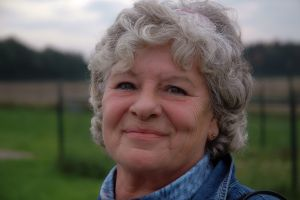
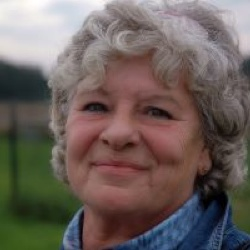
fix size of user images

diff --git a/client/css/linkedtv.css b/client/css/linkedtv.css
@@ -65,16 +65,22 @@ a {
 }
 
 /* user select */
-.card {
+.user.card {
   float: left;
   width: 250px;
 }
-.card .item {  
+.user.card .item {  
   background-color: rgba(95,109,105,0.8);
   border: 1px solid rgb(100,114,124);
 }
-.card .item h2,
-.card .item a {
+.user.card .item-image {
+  height: 250px;
+  width: 250px;
+  overflow: hidden;
+  background-color: white;
+}
+.user.card .item h2,
+.user.card .item a {
   color: white;
 }
 

diff --git a/client/partials/controllers/select.html b/client/partials/controllers/select.html
@@ -3,7 +3,7 @@
 </ion-header-bar>
 
 <ion-content class="has-header">
-  <div class="list card" ng-repeat="u in users">
+  <div class="list card user" ng-repeat="u in users">
     <div class="item">
       <h2>{{u.name}}</h2>
       <p></p>
